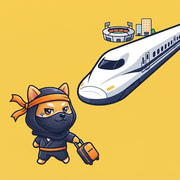
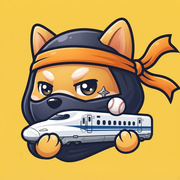
アイコンを基準の型（胸から上・新幹線の模型と野球のボール）に作り直し

diff --git a/index.html b/index.html
@@ -9,9 +9,9 @@
 <link rel="canonical" href="https://ensei.kkpwebninja.com/">
 <meta name="theme-color" content="#ff8a3d">
 <!-- WEBNINJA_UNIFIED_FAVICON -->
-<link rel="icon" type="image/png" sizes="32x32" href="/favicon.png">
-<link rel="icon" type="image/png" sizes="192x192" href="/favicon-192.png">
-<link rel="apple-touch-icon" sizes="180x180" href="/apple-touch-icon.png">
+<link rel="icon" type="image/png" sizes="32x32" href="/favicon.png?v=2">
+<link rel="icon" type="image/png" sizes="192x192" href="/favicon-192.png?v=2">
+<link rel="apple-touch-icon" sizes="180x180" href="/apple-touch-icon.png?v=2">
 <meta property="og:type" content="website">
 <meta property="og:title" content="遠征費計算ツール｜ライブ・野球・サッカー観戦の交通費＋ホテル代の目安">
 <meta property="og:description" content="出発地と会場を選ぶだけ。新幹線・飛行機・バス＋ホテル代の遠征費を3秒で概算。無料・登録不要。">
